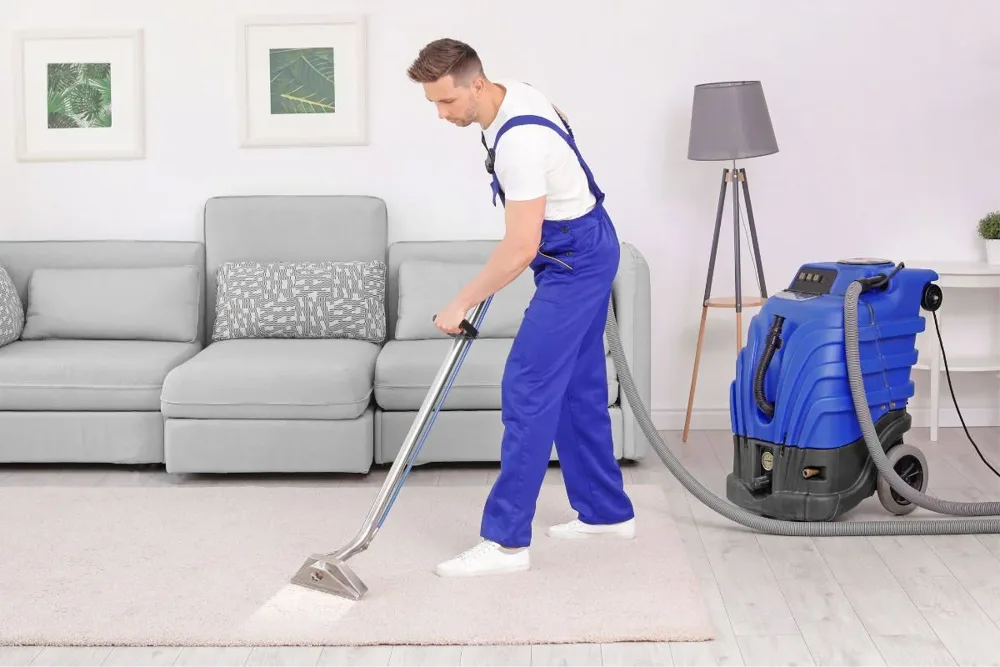
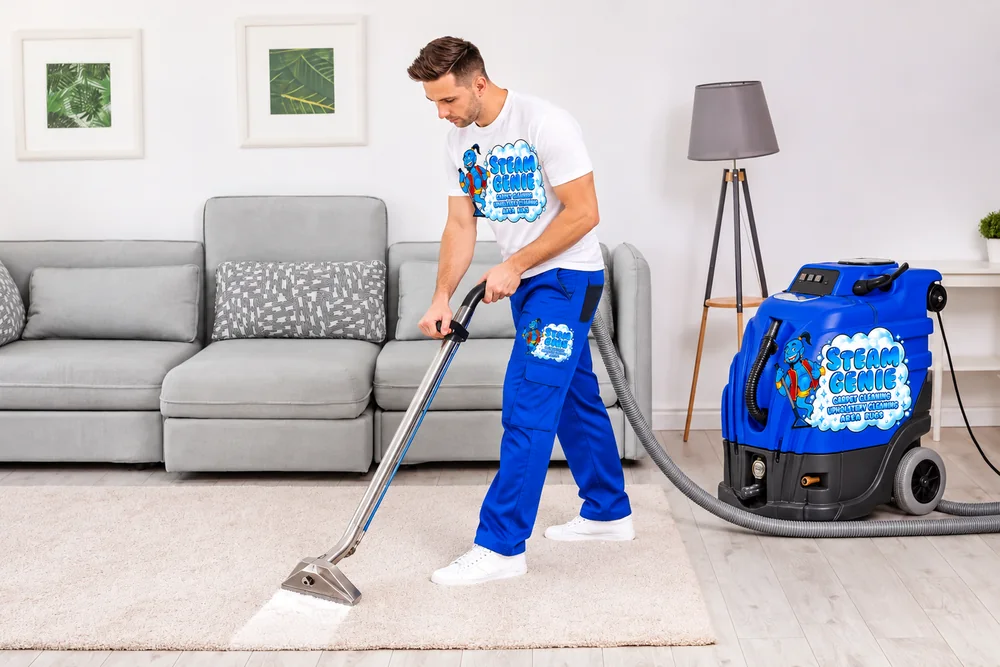
Use new carpet cleaning photo on home and carpet cleaning pages
Claude-Session: https://claude.ai/code/session_01BV9oe8Kw36nd38JRHpVDyE

diff --git a/services/carpet-cleaning/index.html b/services/carpet-cleaning/index.html
@@ -74,7 +74,7 @@
       <p class="ph-sub">Deep cleaning that lifts dirt, stains, allergens and odours. Healthier carpets and a cleaner home.</p>
       <div class="cta"><a class="btn btn-gold btn-lg" href="../../book-online/">Book online <svg><use href="#i-arrow"/></svg></a><a class="btn btn-light btn-lg ct" href="tel:+14037026317" aria-haspopup="true"><svg viewBox="0 0 24 24" fill="currentColor"><use href="#i-phone"/></svg> Call or text</a></div>
     </div>
-    <div class="ph-img"><img src="../../assets/img/work-bedroom.webp" alt="Carpet cleaning in Calgary" width="1000" height="667" loading="eager"></div>
+    <div class="ph-img"><img src="../../assets/img/carpet.webp" alt="Steam Genie technician steam cleaning a living room carpet in Calgary" width="1000" height="667" loading="eager"></div>
   </div>
 </section>
 
@@ -88,7 +88,7 @@
       <ul class="checks two"><li><svg viewBox="0 0 32 32" aria-hidden="true"><use href="#i-check"/></svg>Deep cleaning that lifts dirt and stains</li><li><svg viewBox="0 0 32 32" aria-hidden="true"><use href="#i-check"/></svg>Allergen and odour removal</li><li><svg viewBox="0 0 32 32" aria-hidden="true"><use href="#i-check"/></svg>Pet odour treatment with Heavy Duty</li><li><svg viewBox="0 0 32 32" aria-hidden="true"><use href="#i-check"/></svg>Eco-friendly products, safe for kids and pets</li><li><svg viewBox="0 0 32 32" aria-hidden="true"><use href="#i-check"/></svg>Professional equipment</li><li><svg viewBox="0 0 32 32" aria-hidden="true"><use href="#i-check"/></svg>Bedrooms, living rooms, basements and more</li></ul>
       <div class="best"><b>Great for</b><span class="chip2">Bedrooms</span><span class="chip2">Living rooms</span><span class="chip2">Basements</span><span class="chip2">Stairs and halls</span><span class="chip2">Rentals and move-outs</span><span class="chip2">Commercial carpets</span></div>
     </div>
-    <div class="rv"><div class="frame tilt"><img src="../../assets/img/carpet.webp" alt="Carpet cleaning in Calgary" width="1000" height="667" loading="lazy"></div></div>
+    <div class="rv"><div class="frame tilt"><img src="../../assets/img/work-living.webp" alt="Steam Genie team cleaning carpet in a Calgary home" width="1000" height="667" loading="lazy"></div></div>
   </div>
 </section>
 

diff --git a/index.html b/index.html
@@ -155,7 +155,7 @@
     </div>
     <div class="cards">
       <article class="card c-blue rv">
-        <div class="ph"><img src="assets/img/carpet.webp" alt="Technician steam cleaning a living room carpet" width="1000" height="667" loading="lazy"><span class="from"><em>Starting at</em>$45</span><span class="ico"><svg viewBox="0 0 32 32"><use href="#i-carpet"/></svg></span></div>
+        <div class="ph"><img src="assets/img/carpet.webp" alt="Steam Genie technician steam cleaning a living room carpet" width="1000" height="667" loading="lazy"><span class="from"><em>Starting at</em>$45</span><span class="ico"><svg viewBox="0 0 32 32"><use href="#i-carpet"/></svg></span></div>
         <div class="tx"><h3>Carpet cleaning</h3><p>Deep cleaning for a healthier, fresher home.</p><ul class="feat"><li><svg viewBox="0 0 32 32"><use href="#i-check"/></svg>Lifts dirt, stains and allergens</li><li><svg viewBox="0 0 32 32"><use href="#i-check"/></svg>Pet odour treatment</li><li><svg viewBox="0 0 32 32"><use href="#i-check"/></svg>Bedrooms to basements</li></ul><a class="btn btn-primary" href="book-online/#carpet">See prices &amp; book <svg><use href="#i-arrow"/></svg></a></div>
       </article>
       <article class="card c-gold rv">
